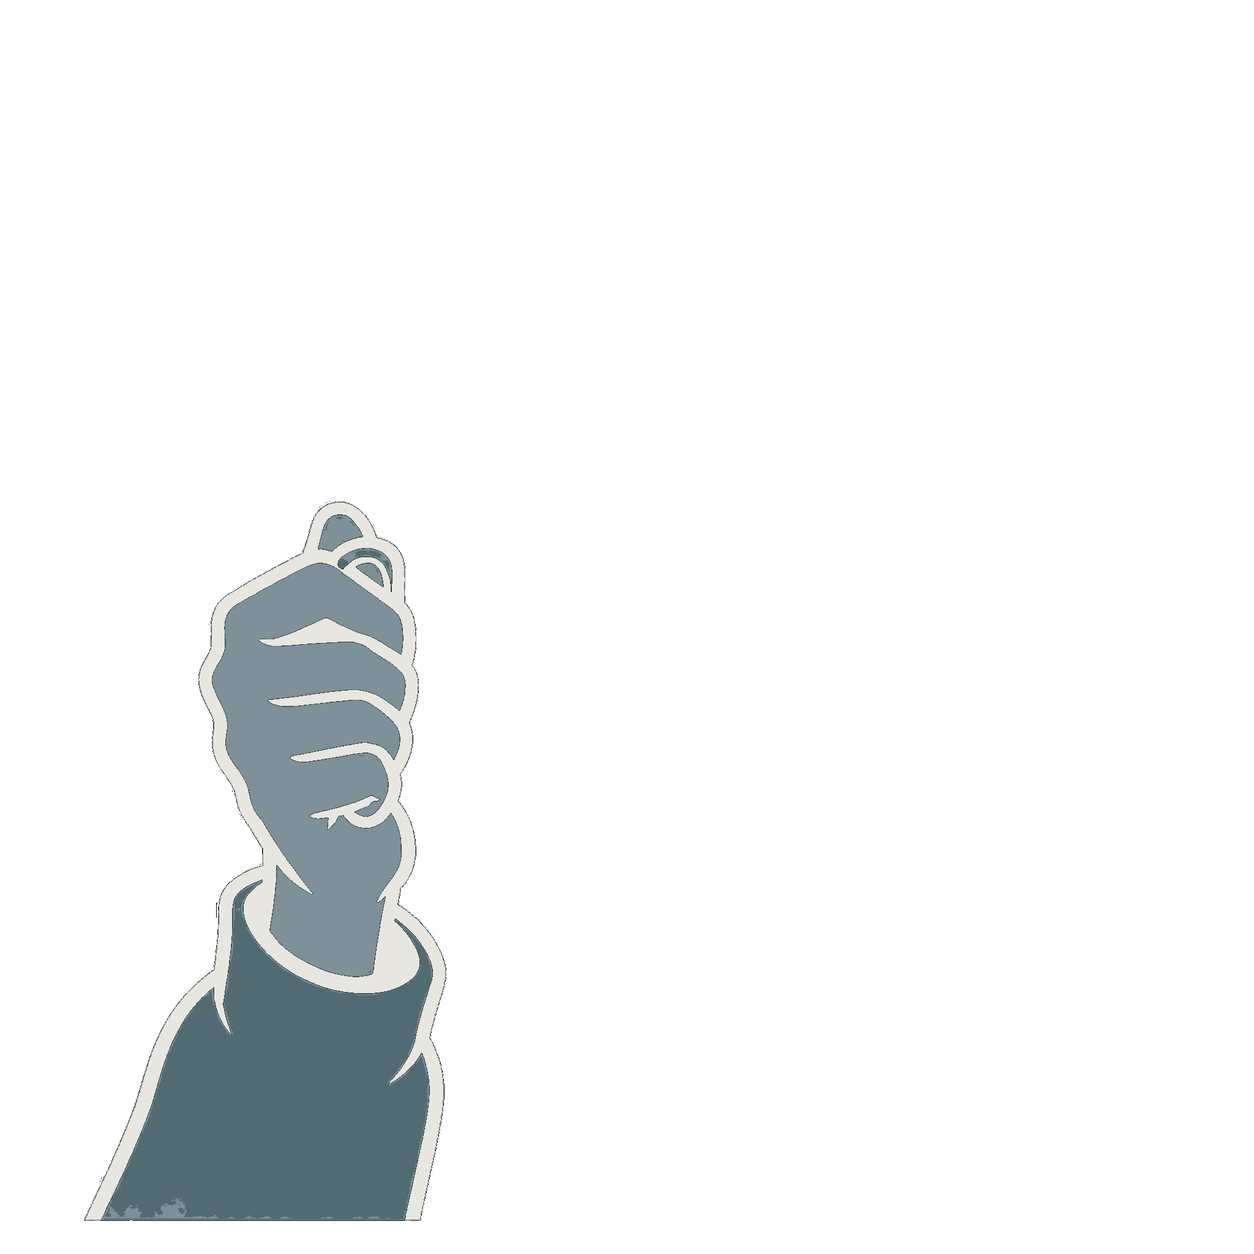
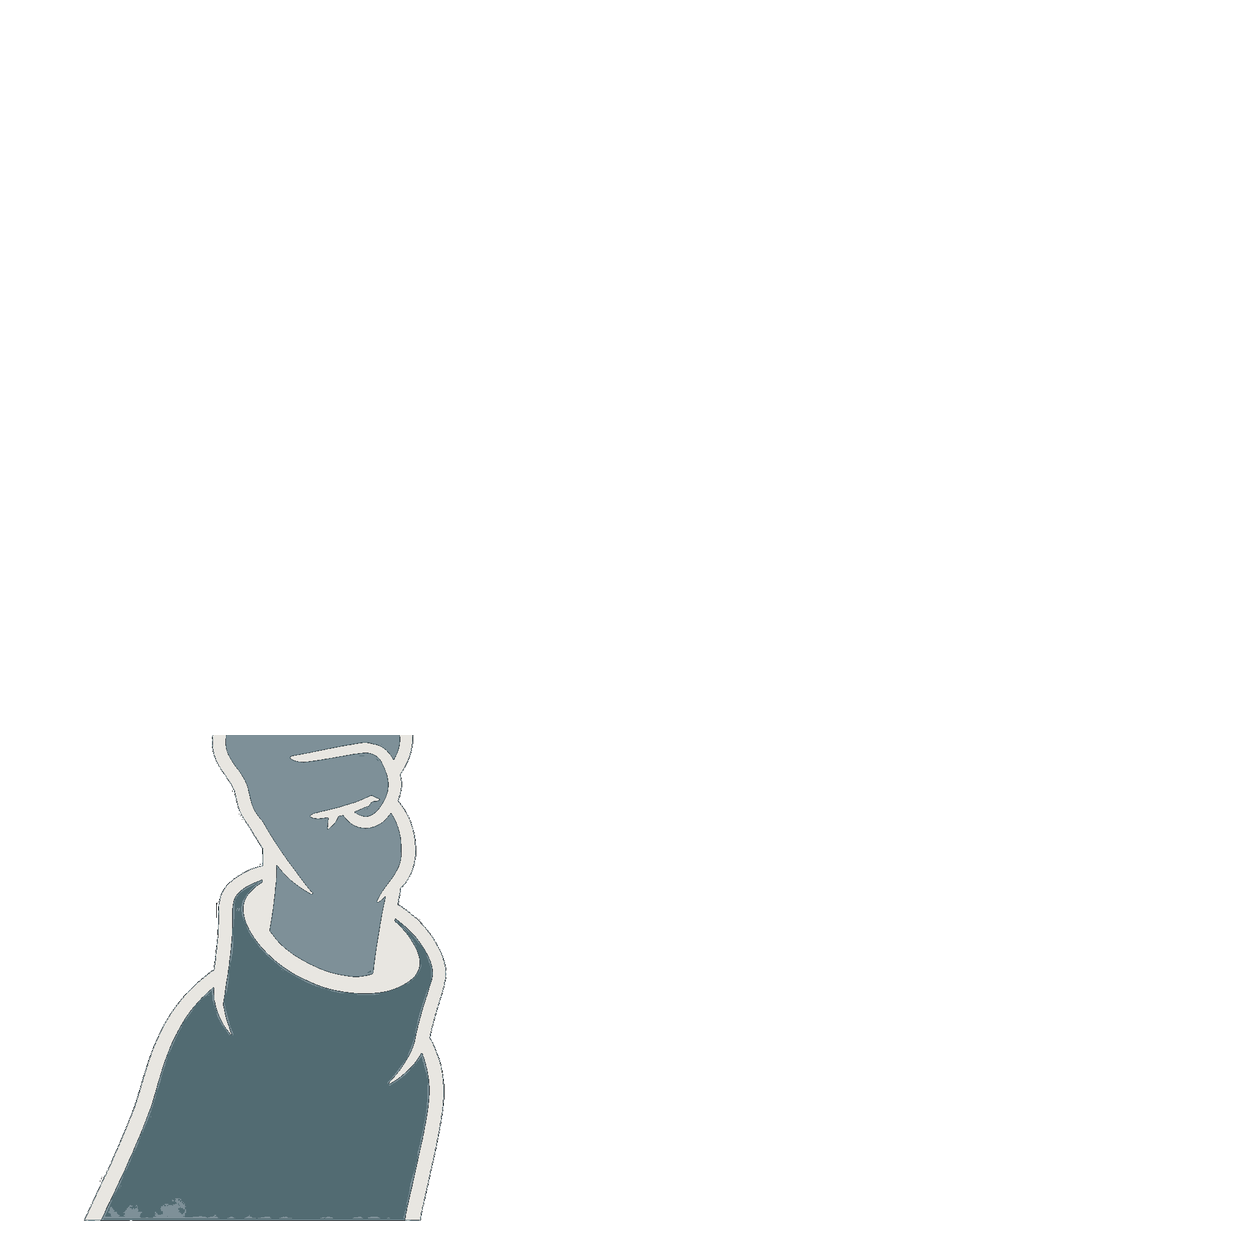
Split puppet hand and shadow layers

Changed region(s): [[0.1555, 0.4043, 0.3421, 0.5909]]

diff --git a/channels/modern-archivist/assets/svg_layers/preview.html b/channels/modern-archivist/assets/svg_layers/preview.html
@@ -109,13 +109,21 @@
     <div class="layer" style="z-index:20">
       <img src="head_neutral.svg" id="head-layer" />
     </div>
-    <!-- z=30: arm/hand reference layer (still a baked action composite; Phase 3 split target) -->
-    <div class="layer" style="z-index:30">
-      <img src="arm_mug_grip.svg" />
+    <!-- z=5: hard-alpha contact shadow from the Phase 3 minimum production batch -->
+    <div class="layer" style="z-index:5">
+      <img src="shadow.png" />
     </div>
-    <!-- z=35: explicit mug layer so the grip no longer reads as a floating fist -->
+    <!-- z=30: lower sleeve/forearm split from the old baked arm layer -->
+    <div class="layer" style="z-index:30; transform: translate(-7%, 20%) scale(0.92); transform-origin:center center;">
+      <img src="arm_right_idle.png" />
+    </div>
+    <!-- z=35: explicit mug layer; still needs final hand/mug visual QC -->
     <div class="layer" style="z-index:35; transform: translate(-7%, 20%) scale(0.92); transform-origin:center center;">
       <img src="mug_code.png" id="mug-layer" />
+    </div>
+    <!-- z=40: semantic hand/grip split overlays the mug in the manifest-driven z-order -->
+    <div class="layer" style="z-index:40; transform: translate(-7%, 20%) scale(0.92); transform-origin:center center;">
+      <img src="hand_mug.png" />
     </div>
     <!-- z=45: glasses — canvas-registered RGBA PNG from source art, transparent bg -->
     <div class="layer" style="z-index:45">
@@ -163,14 +171,24 @@
     <div class="layer-badge">z=20 · vectorize</div>
   </div>
   <div class="layer-card">
-    <div class="layer-thumb"><img src="arm_mug_grip.svg" /></div>
-    <div class="layer-name">arm_mug_grip</div>
-    <div class="layer-badge">z=30 · split target</div>
+    <div class="layer-thumb"><img src="shadow.png" /></div>
+    <div class="layer-name">shadow</div>
+    <div class="layer-badge">z=5 · hard alpha</div>
+  </div>
+  <div class="layer-card">
+    <div class="layer-thumb"><img src="arm_right_idle.png" /></div>
+    <div class="layer-name">arm_right_idle</div>
+    <div class="layer-badge">z=30 · split sleeve</div>
   </div>
   <div class="layer-card">
     <div class="layer-thumb"><img src="mug_code.png" /></div>
     <div class="layer-name">mug_code</div>
     <div class="layer-badge">z=35 · RGBA PNG</div>
+  </div>
+  <div class="layer-card">
+    <div class="layer-thumb"><img src="hand_mug.png" /></div>
+    <div class="layer-name">hand_mug</div>
+    <div class="layer-badge">z=40 · split grip</div>
   </div>
   <div class="layer-card">
     <div class="layer-thumb"><img src="glasses_canvas_reg.png" /></div>
@@ -196,7 +214,7 @@
 
 <p class="note">
   All layers vectorized from RGBA canvas-registered PNGs — transparent background, no compositing hacks.<br>
-  Mug is now an explicit standalone PNG layer; arm_mug_grip remains a split target, not a final semantic hand layer.<br>
+  Phase 3 split now separates lower sleeve, hand/grip, mug, and contact shadow; hand/mug visual alignment still needs final production QC.<br>
   All share viewBox="0 0 2048 2048" or the same registered 1254×1254 canvas.<br>
   Glasses: vectorized from source art (glasses_round_black.png → glasses_round_black.svg).
 </p>

diff --git a/tests/contracts/test_modern_archivist_puppet_assets.py b/tests/contracts/test_modern_archivist_puppet_assets.py
@@ -18,6 +18,8 @@ ASSET_INVENTORY_PATH = ROOT / "channels" / "modern-archivist" / "assets" / "char
 CHARACTER_README_PATH = ROOT / "channels" / "modern-archivist" / "assets" / "character" / "README.md"
 SVG_LAYER_PREVIEW_PATH = ROOT / "channels" / "modern-archivist" / "assets" / "svg_layers" / "preview.html"
 SVG_LAYER_MUG_PATH = ROOT / "channels" / "modern-archivist" / "assets" / "svg_layers" / "mug_code.png"
+SVG_LAYER_HAND_PATH = ROOT / "channels" / "modern-archivist" / "assets" / "svg_layers" / "hand_mug.png"
+SVG_LAYER_SHADOW_PATH = ROOT / "channels" / "modern-archivist" / "assets" / "svg_layers" / "shadow.png"
 
 
 def _alpha_stats(path: Path) -> tuple[float, tuple[int, int, int, int] | None]:
@@ -226,8 +228,29 @@ def test_character_readme_documents_promotion_rubric() -> None:
         assert phrase in readme, f"character README missing rubric phrase: {phrase}"
 
 
-def test_svg_layer_preview_includes_explicit_mug_layer() -> None:
+def test_phase3_semantic_hand_mug_shadow_layers_are_promoted() -> None:
+    manifest = json.loads(MANIFEST_V2_PATH.read_text())
+    layers = {layer["id"]: layer for layer in manifest["layers"]}
+
+    for layer_id in ["hand_mug", "shadow"]:
+        assert layers[layer_id]["status"] == "production", f"{layer_id} must be promoted in Phase 3"
+        assert layers[layer_id]["coordinate_mode"] == "canvas_registered"
+        path = _resolve_layer_path(layers[layer_id]["src"])
+        assert path.exists(), f"{layer_id} render asset missing: {path}"
+        img = Image.open(path).convert("RGBA")
+        assert img.size == (manifest["canvas"]["width"], manifest["canvas"]["height"])
+        assert img.getchannel("A").getbbox() is not None
+
+    assert layers["hand_mug"]["z"] > layers["mug"]["z"], "hand/grip must overlay mug, not sit behind it"
+
+
+def test_svg_layer_preview_includes_explicit_mug_hand_and_shadow_layers() -> None:
     preview = SVG_LAYER_PREVIEW_PATH.read_text()
     assert SVG_LAYER_MUG_PATH.exists(), "svg layer preview must include a standalone visible mug asset"
+    assert SVG_LAYER_HAND_PATH.exists(), "svg layer preview must include a standalone hand/grip asset"
+    assert SVG_LAYER_SHADOW_PATH.exists(), "svg layer preview must include a hard-alpha contact shadow asset"
     assert 'src="mug_code.png"' in preview, "preview must render the mug separately from the arm/hand layer"
+    assert 'src="hand_mug.png"' in preview, "preview must render hand/grip separately from the sleeve and mug"
+    assert 'src="shadow.png"' in preview, "preview must render the Phase 3 contact shadow layer"
     assert "mug_code" in preview, "preview layer strip must expose the mug layer for visual QA"
+    assert "hand_mug" in preview, "preview layer strip must expose the hand/grip layer for visual QA"

diff --git a/channels/modern-archivist/assets/character/asset-inventory.md b/channels/modern-archivist/assets/character/asset-inventory.md
@@ -32,11 +32,11 @@ Generated/maintained as the Phase 2 promotion ledger for the full-body layered p
 | `mouth_frown` | `mouths` | `production` | `anchored_overlay` | 130x115; bbox=[20,20,111,96]; transparent=0.75; visible_colors=1669 | remotion-composer/public/modern-archivist/mouth-frown.png current cropped anchored overlay | cropped anchored overlay; alignment depends on manifest anchor/pivot | Keep as production until a better semantic replacement passes promotion gate. |
 | `glasses_frame` | `glasses` | `production` | `canvas_registered` | 1254x1254; bbox=[263,455,1018,679]; transparent=0.98; visible_colors=21 | channels/modern-archivist/assets/source/production_trace_trial/clean_semantic/png/modern_archivist_glasses_frame.png resized/promoted | passes current contract checks | Keep as production until a better semantic replacement passes promotion gate. |
 | `lens_highlight` | `glasses` | `production` | `canvas_registered` | 1254x1254; bbox=[411,478,863,505]; transparent=1.00; visible_colors=247 | channels/modern-archivist/assets/source/production_trace_trial/clean_semantic/png/modern_archivist_glasses_lens_highlight.png resized/promoted | passes current contract checks | Keep as production until a better semantic replacement passes promotion gate. |
-| `arm_right_idle` | `arms` | `production` | `canvas_registered` | 1254x1254; bbox=[81,498,449,1223]; transparent=0.90; visible_colors=6540 | channels/modern-archivist/assets/source/production_trace_trial/png/modern_archivist_arm_right_mug_grip.png resized/promoted; needs semantic split in Phase 3 | baked arm/mug-grip-derived pose; Phase 3 must split hand/mug semantics | Keep as production until a better semantic replacement passes promotion gate. |
-| `hand_mug` | `arms` | `placeholder` | `canvas_registered` | missing/unpromoted render asset | No promoted production source yet; placeholder declared in manifest. | placeholder layer; skipped by asset image checks | Split current baked arm/mug composite into semantic hand-mug grip layer in Phase 3. |
-| `mug` | `props` | `production` | `canvas_registered` | 1254x1254; bbox=[281,359,896,898]; transparent=0.84; visible_colors=6896 | remotion-composer/public/modern-archivist/archivist-mug.png current render-facing mug asset | passes current contract checks | Keep as production until a better semantic replacement passes promotion gate. |
+| `arm_right_idle` | `arms` | `production` | `canvas_registered` | 1254x1254; bbox=[83,735,447,1221]; transparent=0.92; visible_colors=4731 | remotion-composer/public/modern-archivist/layers/modern_archivist_arm_right_idle.png split from prior arm/hand layer at y=735 | lower sleeve/forearm only; first semantic split candidate, not final neutral arm art | Keep as production split layer until a better neutral/action arm set passes promotion gate. |
+| `hand_mug` | `arms` | `production` | `canvas_registered` | 1254x1254; bbox=[198,500,419,735]; transparent=0.98; visible_colors=4974 | remotion-composer/public/modern-archivist/layers/modern_archivist_hand_mug.png split from prior arm/hand layer at y=735 | first semantic hand/grip layer; still derived from raised grip pose | Replace with cleaner hand-only mug grip after hand/mug alignment visual QC. |
+| `mug` | `props` | `production` | `canvas_registered` | 1254x1254; bbox=[281,359,896,898]; transparent=0.84; visible_colors=6896 | remotion-composer/public/modern-archivist/archivist-mug.png current render-facing mug asset | z-order lowered below `hand_mug` so grip can overlay mug in manifest-driven rendering | Keep as production until a better semantic replacement passes promotion gate. |
 | `steam_01` | `props` | `placeholder` | `canvas_registered` | missing/unpromoted render asset | No promoted production source yet; placeholder declared in manifest. | placeholder layer; skipped by asset image checks | Generate optional flat steam layer; keep disabled/placeholder until mug action reads correctly. |
-| `shadow` | `props` | `placeholder` | `canvas_registered` | missing/unpromoted render asset | No promoted production source yet; placeholder declared in manifest. | placeholder layer; skipped by asset image checks | Generate optional hard-edged character/contact shadow if needed; avoid soft feathering. |
+| `shadow` | `props` | `production` | `canvas_registered` | 1254x1254; bbox=[255,1150,1041,1233]; transparent=0.97; visible_colors=1 | remotion-composer/public/modern-archivist/layers/modern_archivist_shadow.png hard-alpha ellipse generated for Phase 3 minimum batch | simple hard-edged contact shadow; no soft feathering | Keep as production unless visual QC rejects contact-shadow placement. |
 
 ## Candidate source asset inventory
 
